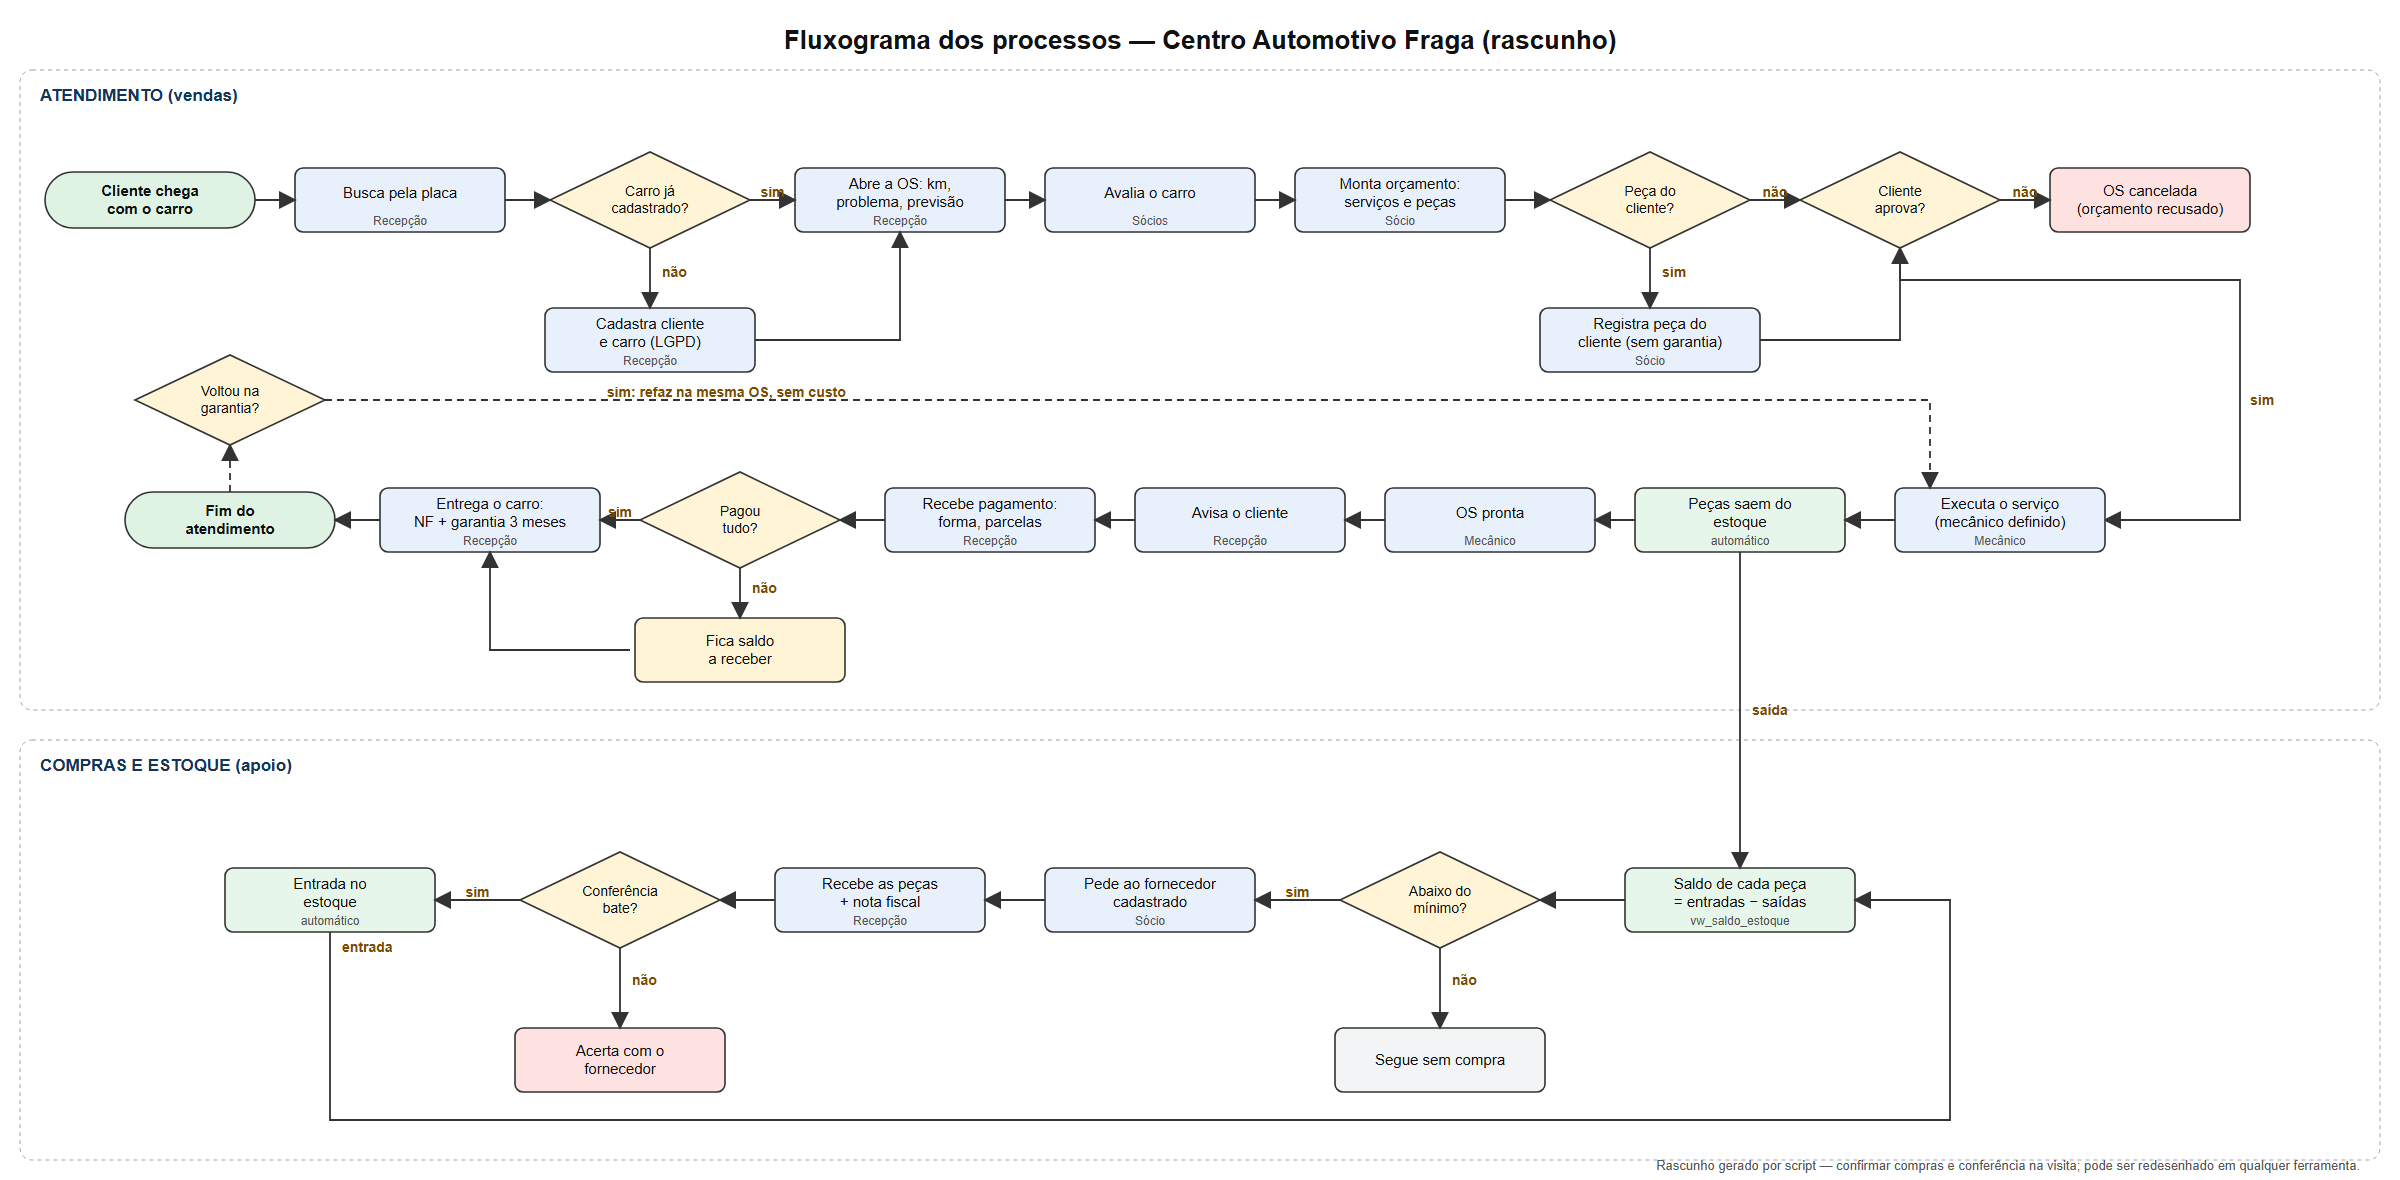
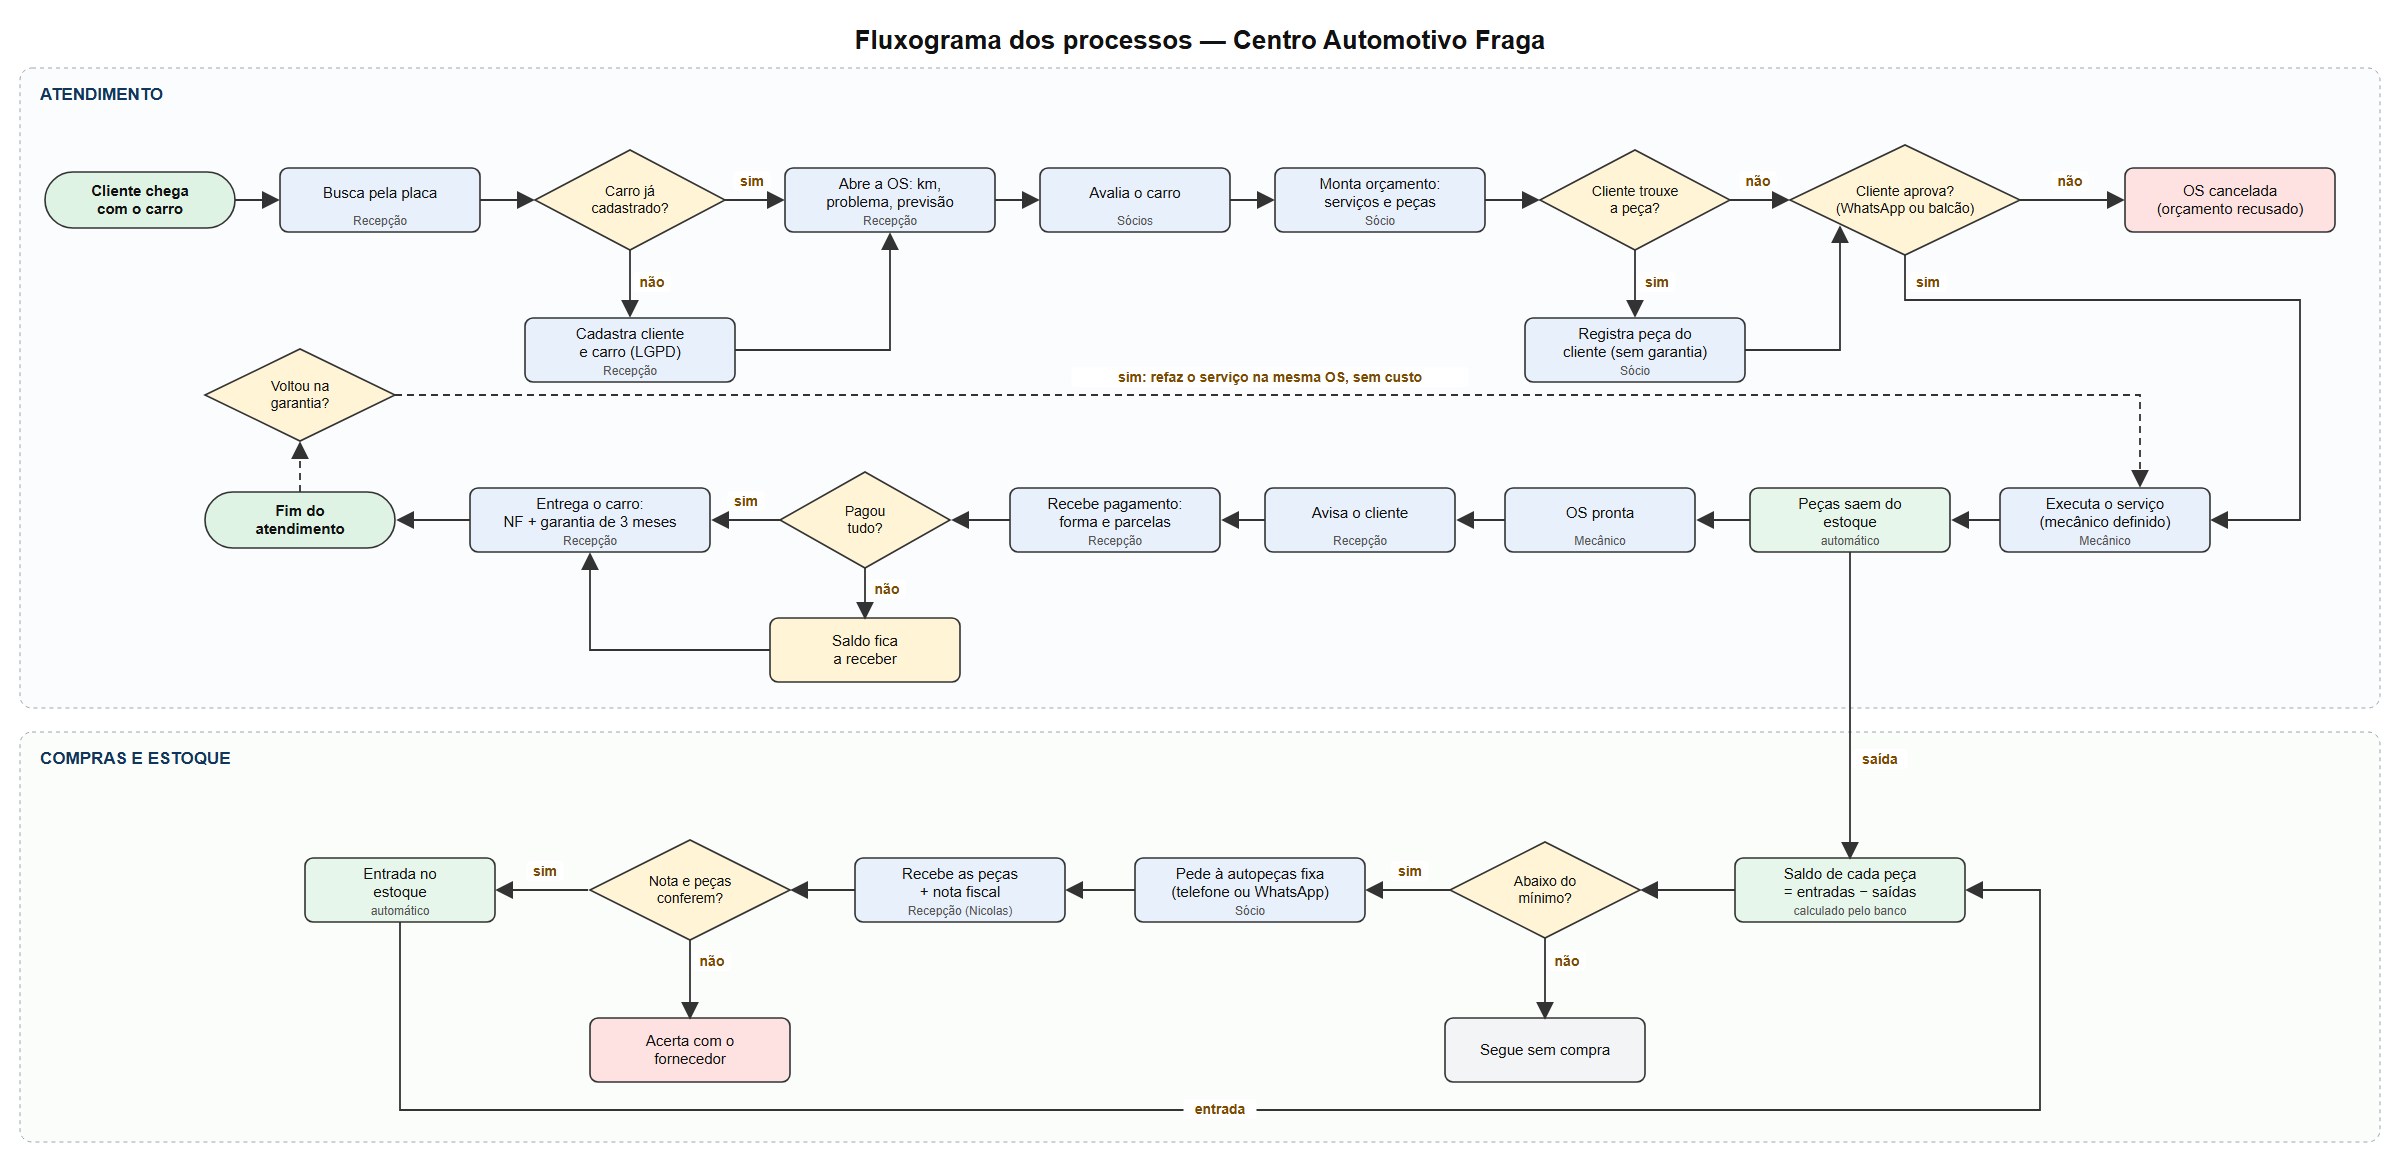
Atualiza o fluxograma dos processos

diff --git a/README.md b/README.md
@@ -427,7 +427,7 @@ Os commits são feitos por cada integrante com a própria conta do GitHub.
   - na revisão, o grupo trocou as suposições da IA pelos fatos levantados: responsável e entrevistado (Nicolas), participantes e data da visita, compras com autopeças fixas e conferência pela recepção, nota fiscal em toda entrega, ausência de agendamento, aprovação do orçamento pelo WhatsApp ou no balcão e controle de estoque "de cabeça".
 - **Justificativa da escolha final:** o grupo manteve a estrutura, o script e as consultas porque foram testados e batem com o que foi levantado; mudou só o que dependia de fatos da oficina.
 - **Diagramas no brModelo Web (03/11/2026):** com a conta do grupo, o Claude montou o DER no editor do brModelo Web. Ele gerou o conteúdo a partir do modelo do script e salvou pela própria página. Depois usou o conversor do site para o modelo lógico, respondendo às perguntas do assistente de conversão: FK na tabela do lado "muitos", como no script. Por fim, corrigiu o que o conversor deixou diferente do script: nomes de FK, tipos `INT` genéricos, atributos da associativa e as cardinalidades (0, 1) perdidas. Um erro do próprio Claude (FKs opcionais marcadas como PK) foi achado na conferência e corrigido antes da exportação.
-- **Também gerado nesta etapa:** o fluxograma dos processos (rascunho), os slides do pitch (`apresentacao/pitch-fraga.pptx`) e o sistema extra (`extra/sistema-oficina`). Durante o uso do sistema, a IA encontrou e corrigiu um erro real do script: `saldo - estoque_minimo` falhava com coluna `UNSIGNED` (erro 1690). A view passou a converter para `SIGNED`.
+- **Também gerado nesta etapa:** o fluxograma dos processos, os slides do pitch (`apresentacao/pitch-fraga.pptx`) e o sistema extra (`extra/sistema-oficina`). Durante o uso do sistema, a IA encontrou e corrigiu um erro real do script: `saldo - estoque_minimo` falhava com coluna `UNSIGNED` (erro 1690). A view passou a converter para `SIGNED`.
 - **Reflexão crítica:** a IA não esteve na oficina. Tudo o que é sobre o funcionamento real e não estava na Entrega 1 ficou pendente até o grupo confirmar com a oficina. A massa é coerente com o porte, mas os preços de serviços e peças são estimativas, não a tabela real da oficina. O conversor do brModelo Web perdeu informações do conceitual (atributos da associativa, cardinalidade opcional e nomes das FKs), e o modelo lógico só ficou fiel ao script depois de conferido campo a campo. O grupo deve revisar os dois diagramas antes da defesa.
 
 ---
